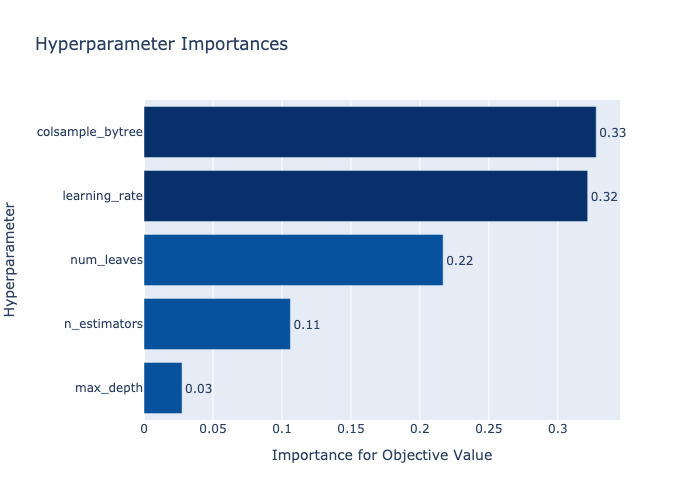
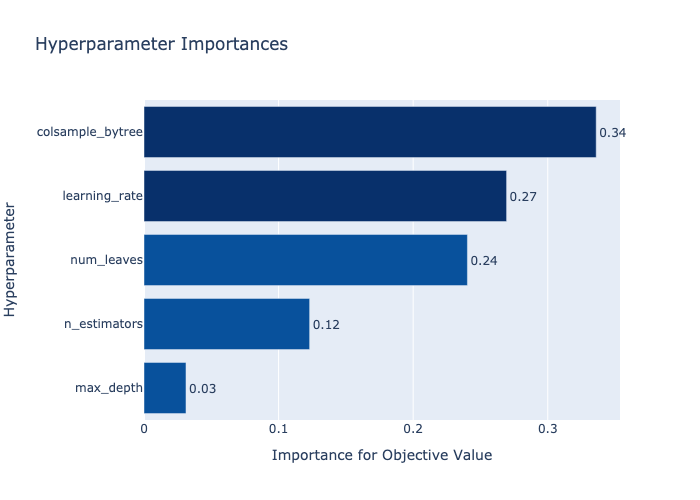
add various file

diff --git a/2021/eda.py b/2021/eda.py
@@ -1,16 +1,24 @@
 import os
-import sys
 import pandas as pd
 import matplotlib.pyplot as plt
 import japanize_matplotlib
 import seaborn as sns
-import numpy as np
+from scipy import stats
 
 
-IN_DIR, IN_FILE = "./data", "cryptic_pocket_apo.csv"
-OUT_DIR = "./eda"
-OUT_FILE = "cryptic_site_vs_other_site_for_apo_eda.png"
-N_COLS = 5
+IN_DIR = './data'
+IN_TRAIN_FILE, IN_TEST_FILE = 'cryptic_pocket_apo_train_add_features.csv', 'cryptic_pocket_apo_test_add_features.csv'
+OUT_DIR = './eda'
+
+os.makedirs(OUT_DIR, exist_ok=True)
+
+IS_HISTGRAM = True
+IS_INSPECTION = True
+
+if IS_HISTGRAM:
+    OUT_FILE_HIST = 'cryptic_site_vs_other_site_for_apo_add_features_eda_hist'
+    OUT_FILE_VIOLIN = 'cryptic_site_vs_other_site_for_apo_add_features_eda_violin'
+    N_COLS = 5
 
 
 
@@ -34,6 +42,7 @@ def multi_plot(df, filename):
                 df[c].value_counts().plot(ax=ax, kind='bar')
             else:
                 df[c].plot(ax=ax, kind='hist')
+
             ax.set_title(c)
 
     fig.tight_layout()
@@ -53,12 +62,13 @@ def vs_multi_plot(df1, df2, filename):
     # プロット
     for c, ax in zip(columns, axes.ravel()):
 
+
             if df1[c].dtypes=='object':
-                df1[c].value_counts().plot(ax=ax, kind='bar', alpha=0.7, label='cryptic site', color="C2")
-                df2[c].value_counts().plot(ax=ax, kind='bar', alpha=0.7, label='concave surface patches', color="C3")
+                df1[c].value_counts().plot(ax=ax, kind='bar', alpha=0.5, label='cryptic site', color='C2', range=(min(df1[c].value_counts()), max(df1[c].value_counts())), bins=15)
+                df2[c].value_counts().plot(ax=ax, kind='bar', alpha=0.5, label='concave site', color='C3', range=(min(df2[c].value_counts()), max(df2[c].value_counts())), bins=15)
             else:
-                df1[c].plot(ax=ax, kind='hist', alpha=0.7, label='cryptic site', color="C2")
-                df2[c].plot(ax=ax, kind='hist', alpha=0.7, label='concave surface patches', color="C3")
+                df1[c].plot(ax=ax, kind='hist', alpha=0.5, label='cryptic site', color='C2', range=(min(df1[c]), max(df1[c])), bins=15)
+                df2[c].plot(ax=ax, kind='hist', alpha=0.5, label='concave site', color='C3', range=(min(df2[c]), max(df2[c])), bins=15)
 
             ax.set_title(c)
             ax.legend(bbox_to_anchor=(1.05, 1), loc='upper left', borderaxespad=0)
@@ -68,16 +78,65 @@ def vs_multi_plot(df1, df2, filename):
     plt.savefig(os.path.join(OUT_DIR, filename))
 
 
+def violin_plot(df, filename):
+
+    plt.style.use('default')
+    sns.set()
+    sns.set_style('whitegrid')
+    sns.set_palette('Set3')
+
+    columns = df.columns
+    n_figs = len(columns)
+    n_rows = n_figs // N_COLS
+    
+    fig, axes = plt.subplots(ncols=N_COLS, nrows=n_rows, figsize=(N_COLS * 3, n_rows * 3))
+    fig.subplots_adjust(wspace=0.7, hspace=1.4)
+
+    # プロット
+    for c, ax in zip(columns, axes.ravel()):
+            sns.violinplot(x='cryptic pocket flag', y=c, data=df, 
+                hue='cryptic pocket flag', dodge=False, jitter=True, 
+                color='black', palette='Set1', ax=ax)
+
+            ax.legend(bbox_to_anchor=(1.05, 1), loc='upper left', borderaxespad=0)
+
+    fig.tight_layout()
+    # save figure
+    plt.savefig(os.path.join(OUT_DIR, filename))
+
+
+
+def two_sample_test(input_df):
+
+    test_dic = {} 
+    for clm in input_df.columns:
+        cryptic_site = input_df[input_df['cryptic pocket flag']==1]
+        other_site = input_df[input_df['cryptic pocket flag']==0]
+
+        if not clm=="cryptic pocket flag":
+            test_dic[clm] = stats.ks_2samp(cryptic_site[clm], other_site[clm]).pvalue
+
+    test_dic_sorted = sorted(test_dic.items(), key=lambda x:x[1])
+    for key,val in dict(test_dic_sorted).items():
+        print('culum name: {}, p value: {}'.format(key, val))
+
 
 def main():
 
-    input_df = read_csv(IN_DIR, IN_FILE)
+    input_train_df = read_csv(IN_DIR, IN_TRAIN_FILE)
+    input_test_df = read_csv(IN_DIR, IN_TEST_FILE)
+    input_df = pd.concat([input_train_df, input_test_df], axis=0)
 
-    # print(input_df)
-    cryptic_site_apo_df = input_df[input_df["cryptic pocket flag"]==1].drop(columns='PDB Name')
-    other_site_apo_df = input_df[input_df["cryptic pocket flag"]==0].drop(columns='PDB Name')
+    if IS_HISTGRAM :
+        cryptic_site_apo_df = input_df[input_df['cryptic pocket flag']==1].drop(columns='PDB Name')
+        other_site_apo_df = input_df[input_df['cryptic pocket flag']==0].drop(columns='PDB Name')
+        vs_multi_plot(cryptic_site_apo_df, other_site_apo_df, OUT_FILE_HIST)
+        violin_plot(input_df.drop(columns='PDB Name'), OUT_FILE_VIOLIN)
 
-    vs_multi_plot(cryptic_site_apo_df, other_site_apo_df, OUT_FILE)
+    if IS_INSPECTION:
+        two_sample_test(input_df.drop(columns='PDB Name'))
+
+    print('OK.')
 
 
 if __name__ == "__main__":

diff --git a/2021/train.py b/2021/train.py
@@ -44,10 +44,10 @@ os.makedirs(os.path.join(OUTPUT_DIR, OUTPUT_OPTUNA),exist_ok=True)
 
 
 # Optunaで Tuning するかどうか
-TUNING_RF = False
-TUNING_XGB = False
+TUNING_RF = True
+TUNING_XGB = True
 TUNING_LGBM = True
-TUNING_SVM = False
+TUNING_SVM = True
 
 # k-cross validation
 FOLD_TYPE = "k-fold" # 'k-fold' or 'k-stratified'
@@ -60,10 +60,10 @@ SVM_FEATURE_FIG, SVM_FEATURE_FILENAME = "feature_importance_svm.png", "feature_s
 CONFUSION_MATRIX_FILENAME = "confusion_matrix.png"
 
 # shap
-IS_RF_SHAP = True
-IS_XGB_SHAP = True
-IS_LGBM_SHAP = True
-IS_SVM_SHAP = True
+IS_RF_SHAP = False
+IS_XGB_SHAP = False
+IS_LGBM_SHAP =False
+IS_SVM_SHAP = False
 
 # 特徴重要度の観察から特徴量削除カラム
 RF_COLUMNS_NAME = []
@@ -128,9 +128,9 @@ def main():
 
     # train param setting
     hyper_params = json.load(open('./lib/hyper_param.json', 'r'))
-    xgb_params = hyper_params['xgb']
-    lgbm_params = hyper_params['lgbm']
-    svm_params = hyper_params['svm']
+    # xgb_params = hyper_params['xgb']
+    # lgbm_params = hyper_params['lgbm']
+    # svm_params = hyper_params['svm']
 
 
     ## for train

diff --git a/2021/preprocession.py b/2021/preprocession.py
@@ -9,11 +9,13 @@ IN_PATH, IN_FILE = "./data", "cryptic_pocket_apo.csv"
 
 # 学習データとテストデータ(別々に用意した)を読込む。
 DO_READ_DATA_TRAIN_TEST = True
-IN_PATH, IN_TRAIN_FILE = "./data", "cryptic_pocket_apo_train.csv"
-IN_PATH, IN_TEST_FILE = "./data", "cryptic_pocket_apo_test.csv"
+IN_PATH, IN_TRAIN_FILE = "./data", "cryptic_pocket_apo_train_add_features.csv"
+IN_PATH, IN_TEST_FILE = "./data", "cryptic_pocket_apo_test_add_features.csv"
 
 # 出力ディレクトリ
 OUT_PATH = "./input/apo"
+OUT_TRAIN_FILE = "train_add_features.csv"
+OUT_TEST_FILE = "test_add_features.csv"
 
 
 
@@ -50,8 +52,8 @@ def main():
         test_df = read_csv(IN_TEST_FILE)
 
     # save
-    save_csv(train_df, "train.csv")
-    save_csv(test_df, "test.csv")
+    save_csv(train_df, OUT_TRAIN_FILE)
+    save_csv(test_df, OUT_TEST_FILE)
 
 
 
